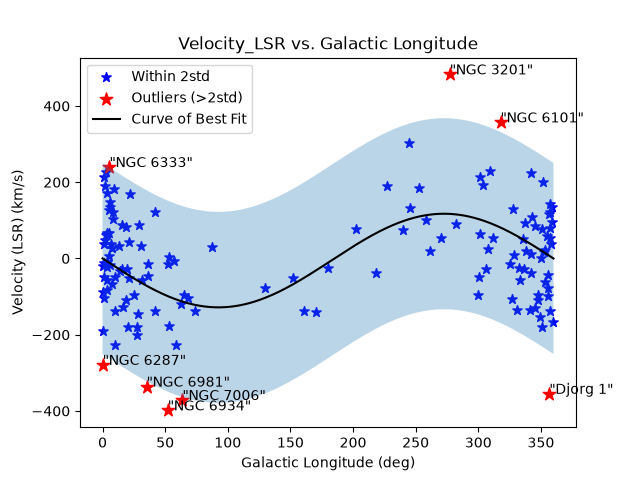
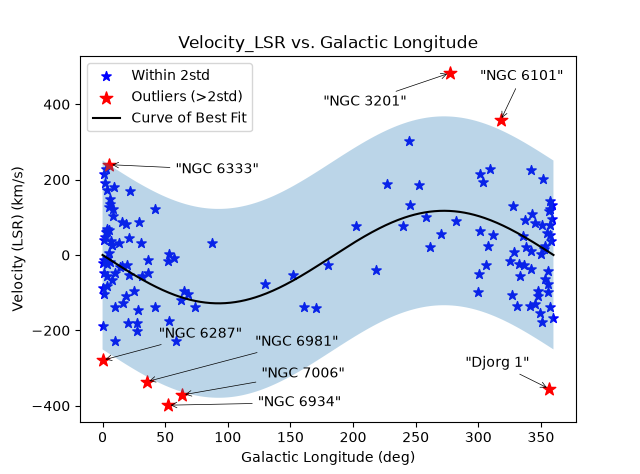
Fixed Plot Labels

diff --git a/src/kinematics.py b/src/kinematics.py
@@ -36,14 +36,14 @@ best_parameters, covariance = curve_fit(model, galactic_longitude, velocity_lsr)
 residual = velocity_lsr - model(galactic_longitude, best_parameters[0], best_parameters[1], best_parameters[2]) #Difference between data and model for each point
 std_residual  = np.std(residual) 
 outlier  = np.abs(residual) > 2 * std_residual #Let outliers be any point more than 2 standard deviations from model. 
-#^Gives array of true and falses for each GC - True = Outlier
+#Outlier is an array of true and falses for each GC - True = Outlier, False = Non-outlier 
 
 plt.scatter(galactic_longitude[~outlier], velocity_lsr[~outlier], marker ='*', s = 50, label = 'Within 2std', color = 'blue')
 #The points with a true index from outlier will be plotted. ~ flips array, so all trues become falses and vice versa. So plot all the falses (non-outliers) first .
 plt.scatter(galactic_longitude[outlier], velocity_lsr[outlier], marker ='*', s = 90, color = 'red', label='Outliers (>2std)')
 #Plot GCs with true index, which are the outliers.
 
-#Plot curve of best fit:  
+#Plot the sinusoidal curve of best fit:  
 l_values = np.linspace(0, 360, 361) #Array of degrees from 0 - 360, x values. 
 curve = model(l_values, best_parameters[0], best_parameters[1], best_parameters[2]) # a = best_parameters[0], etc. Feed into model function. 
 plt.plot(l_values, curve, 'k-', label = 'Curve of Best Fit') #Add the sine curve of best fit to scatter plot as a black line
@@ -52,14 +52,18 @@ plt.fill_between(l_values, curve - 2*std_residual, curve + 2*std_residual, alpha
 
 #Label outliers with their ID on graph:
 for i in np.where(outlier)[0]: #Find where outlier array is true
-    plt.annotate(ID[i], (galactic_longitude[i], velocity_lsr[i])) 
+    label = plt.annotate(ID[i], (galactic_longitude[i], velocity_lsr[i]), arrowprops=dict(arrowstyle="->", color="black", lw=0.5)) 
     #plt.annotate(Text, (x coordinate, y coordinate))
+    label.draggable(True)
+
 plt.xlabel('Galactic Longitude (deg)')
 plt.ylabel('Velocity (LSR) (km/s)')
 plt.title('Velocity_LSR vs. Galactic Longitude') # Title of graph
 plt.legend()
-#plt.savefig("Velocity_LSR vs. Galactic Longitude.png")
+
+fig = plt.gcf() #Get current figure
 plt.show()
+#fig.savefig("Velocity_LSR vs. Galactic Longitude.png")
 print(ID[outlier])
 
 #NEXT: Add spatial plots from paper and identify the outliers from the above graph on those spatial plots to confirm if they are actually accreted. 
@@ -84,13 +88,17 @@ plt.loglog(R[~outlier], abs_z[~outlier], linestyle='None', marker = '*' ,markers
 plt.loglog(R[outlier], abs_z[outlier],linestyle='None', marker = '*' ,markersize='10',color = 'red', label='Outliers')
 #Label outliers with their ID on graph:
 for i in np.where(outlier)[0]: #Find where outlier array is true
-    plt.annotate(ID[i], (R[i], abs_z[i])) 
+    label = plt.annotate(ID[i], (R[i], abs_z[i]), arrowprops=dict(arrowstyle="->", color="black", lw=0.5)) 
+    label.draggable(True)
+
 plt.xlabel('R = (x^2 + y^2)^(1/2) (kpc)')
 plt.ylabel('|Z| (kpc)')
-plt.title('R vs |Z|') 
-plt.legend()    
-#plt.savefig("R vs abs(Z) With Velocity Outliers.png")
-plt.show()
+plt.title('R vs |Z| With Velocity Outliers') 
+plt.legend()  
+
+fig = plt.gcf() #Get current figure; Assign plot to fig variable so plot isn't erased after executing plt.show()
+plt.show() #Show plot to drag the labels.
+fig.savefig("R vs abs(Z) With Velocity Outliers.png") #Save fig as a figure. 
 
 #Graph 2: Z vs. X with outliers plotted
 #Plot the non-outliers in blue:
@@ -100,16 +108,20 @@ plt.scatter(X[outlier], Z[outlier], marker = '*', color = 'red', s = 50, label =
 
 #Add IDs as labels:
 for i in np.where(outlier)[0]: #Find where outlier array is true
-    plt.annotate(ID[i], (X[i], Z[i])) 
+    label = plt.annotate(ID[i], (X[i], Z[i]), arrowprops=dict(arrowstyle="->", color="black", lw=0.5)) 
+    label.draggable(True)
+
 plt.xlabel('X (kpc)')
 plt.ylabel('Z (kpc)')
-plt.title('Z vs X') 
+plt.title('Z vs X With Velocity Outliers') 
 plt.legend()
 #Limit x and y axis to between -25 and 25 to match the plots from  the paper so they can be compared easier. 
 plt.xlim(-25, 25)
 plt.ylim(-25, 25)
-#plt.savefig("Z vs X With Velocity Outliers.png")
+
+fig = plt.gcf()
 plt.show()
+fig.savefig("Z vs X With Velocity Outliers.png")
 
 #Graph 3: Y vs. X with outliers plotted
 #Plot non outliers
@@ -118,14 +130,18 @@ plt.scatter(X[~outlier], Y[~outlier], marker = '*',color='blue', s = 50, label =
 plt.scatter(X[outlier], Y[outlier], marker = '*', color = 'red', s = 50, label = 'Outliers')
 #Label the outliers with their IDs
 for i in np.where(outlier)[0]: #Find where outlier array is true
-    plt.annotate(ID[i], (X[i], Y[i])) 
+    label = plt.annotate(ID[i], (X[i], Y[i]), arrowprops=dict(arrowstyle="->", color="black", lw=0.5)) 
+    label.draggable(True)
+
 plt.xlabel('X (kpc)')
 plt.ylabel('Y (kpc)')
-plt.title('Y vs X') 
+plt.title('Y vs X With Velocity Outliers') 
 plt.legend()
 #Not limiting axis for this plot as one of the outliers (NGC7006) is outisde the range -25 - 25, but limiting it makes the positions of the other outliers more obvious. 
-#plt.savefig("Y vs X With Velocity Outliers.png")
+
+fig = plt.gcf()
 plt.show()
+fig.savefig("Y vs X With Velocity Outliers.png")
 
 #Graph 4: Y vs. X with outliers plotted and y-axis limited
 #Plot non outliers
@@ -134,13 +150,17 @@ plt.scatter(X[~outlier], Y[~outlier], marker = '*',color='blue', s = 50, label =
 plt.scatter(X[outlier], Y[outlier], marker = '*', color = 'red', s = 50, label = 'Outliers')
 #Label the outliers with their IDs
 for i in np.where(outlier)[0]: #Find where outlier array is true
-    plt.annotate(ID[i], (X[i], Y[i])) 
+    label = plt.annotate(ID[i], (X[i], Y[i]), arrowprops=dict(arrowstyle="->", color="black", lw=0.5)) 
+    label.draggable(True)
+
 plt.xlabel('X (kpc)')
-plt.ylabel('Y (kpc)')
-plt.title('Y vs X (Y-Axis -25 to 25) With Velocity Outliers') 
+plt.ylabel('Y (kpc) (-25 to 25)')
+plt.title('Y vs X With Velocity Outliers') 
 plt.legend()
 #Limit y-axis to -25 to 25 for easier comparison with paper: 
 plt.xlim(-25, 25)
 plt.ylim(-25, 25)
-#plt.savefig("Y vs X (Y-Axis -25 to 25) With Velocity Outliers.png")
+
+fig = plt.gcf()
 plt.show()
+fig.savefig("Y (-25 to 25) vs X With Velocity Outliers.png")
